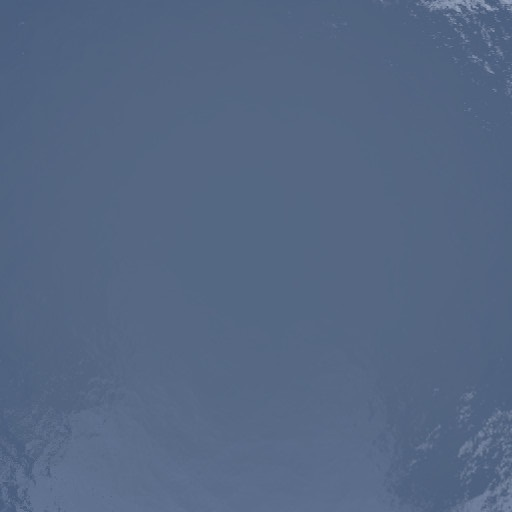
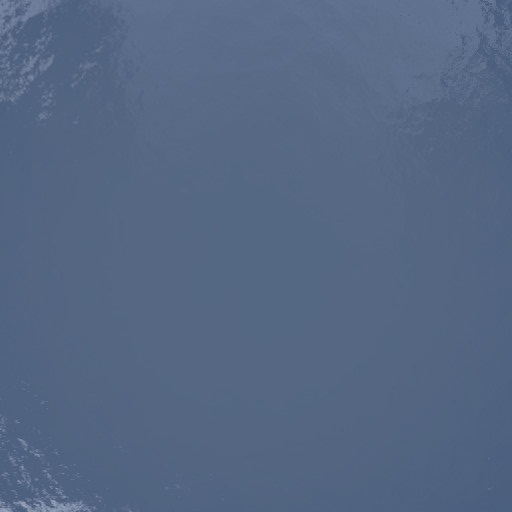
shadows working time to fix moire pattern

diff --git a/Engine/main.cpp b/Engine/main.cpp
@@ -29,6 +29,35 @@ float lastY = height / 2;
 float yaw = -90.0f;
 float pitch = 0.0f;
 
+unsigned int quadVAO = 0;
+unsigned int quadVBO;
+void renderQuad()
+{
+	if (quadVAO == 0)
+	{
+		float quadVertices[] = {
+			// positions        // texture Coords
+			-1.0f,  1.0f, 0.0f, 0.0f, 1.0f,
+			-1.0f, -1.0f, 0.0f, 0.0f, 0.0f,
+			 1.0f,  1.0f, 0.0f, 1.0f, 1.0f,
+			 1.0f, -1.0f, 0.0f, 1.0f, 0.0f,
+		};
+		// setup plane VAO
+		glGenVertexArrays(1, &quadVAO);
+		glGenBuffers(1, &quadVBO);
+		glBindVertexArray(quadVAO);
+		glBindBuffer(GL_ARRAY_BUFFER, quadVBO);
+		glBufferData(GL_ARRAY_BUFFER, sizeof(quadVertices), &quadVertices, GL_STATIC_DRAW);
+		glEnableVertexAttribArray(0);
+		glVertexAttribPointer(0, 3, GL_FLOAT, GL_FALSE, 5 * sizeof(float), (void*)0);
+		glEnableVertexAttribArray(1);
+		glVertexAttribPointer(1, 2, GL_FLOAT, GL_FALSE, 5 * sizeof(float), (void*)(3 * sizeof(float)));
+	}
+	glBindVertexArray(quadVAO);
+	glDrawArrays(GL_TRIANGLE_STRIP, 0, 4);
+	glBindVertexArray(0);
+}
+
 void createShadowMap(uint32_t& fbo, uint32_t& id)
 {
 	//Create frame buffer object to represent shadow map
@@ -165,6 +194,8 @@ int main(int argc, char* argv[])
 
 	Shader defaultShader;
 	defaultShader.load("Shaders/default.vert", "Shaders/default.frag");
+	defaultShader.activate();
+	defaultShader.setUniform("ourTexture", 0);
 	defaultShader.setUniform("shadowMap", 1);
 
 	Shader skyboxShader;
@@ -172,6 +203,9 @@ int main(int argc, char* argv[])
 
 	Shader simpleDepthShader;
 	simpleDepthShader.load("Shaders/depthShader.vert", "Shaders/depthShader.frag");
+
+	Shader debugDepthShader;
+	debugDepthShader.load("Shaders/debugDepthShader.vert", "Shaders/debugDepthShader.frag");
 	
 	//Get the size of the window for setting the perspective matrix
 	int* wide = &width;
@@ -224,9 +258,9 @@ int main(int argc, char* argv[])
 
 		//Model directional light source with parallel light rays
 		glm::mat4 lightProj, lightView, lightSpace;
-		float nearPlane = 1.0f, farPlane = 150.0f;
+		float nearPlane = 1.0f, farPlane = 20.0f;
 		lightProj = glm::ortho(-10.0f, 10.0f, -10.0f, 10.0f, nearPlane, farPlane);
-		lightView = glm::lookAt(glm::vec3(0, 30, 0), glm::vec3(0, 0, 0), glm::vec3(0, 1, 0));
+		lightView = glm::lookAt(glm::vec3(-8.0f, 6.0f, -1.0f), glm::vec3(0.0f, 0.0f, 0.0f), glm::vec3(0.0f, 1.0f, 0.0f));
 		lightSpace = lightProj * lightView;
 
 		simpleDepthShader.activate();
@@ -249,10 +283,11 @@ int main(int argc, char* argv[])
 		defaultShader.setUniform("view", camera);
 		defaultShader.setUniform("projection", perspective);
 		defaultShader.setUniform("viewPos", cameraPos);
-		defaultShader.setUniform("dirLight.direction", glm::vec3(0, -1, 0));
-		defaultShader.setUniform("pointLights[0].position", glm::vec3(0, 0, 0));
+		defaultShader.setUniform("dirLight.direction", glm::vec3(8.0f, -6.0f, 1.0f));
+		defaultShader.setUniform("pointLights[0].position", glm::vec3(0, -10, 0));
 		defaultShader.setUniform("pointLights[0].linear", 0.7f);
 		defaultShader.setUniform("pointLights[0].quadratic", 1.8f);
+		defaultShader.setUniform("lightSpaceMatrix", lightSpace);
 		island.render(defaultShader, shadowMapID);
 		defaultShader.disable();
 
@@ -266,6 +301,13 @@ int main(int argc, char* argv[])
 		skyboxShader.disable();
 		//Set the depth function back to default
 		glDepthFunc(GL_LESS);
+
+		debugDepthShader.activate();
+		debugDepthShader.setUniform("near_plane", nearPlane);
+		debugDepthShader.setUniform("far_plane", farPlane);
+		glActiveTexture(GL_TEXTURE0);
+		glBindTexture(GL_TEXTURE_2D, shadowMapID);
+		//renderQuad();
 
 		//Update the window with OpenGL rendering by swapping the back buffer with the front buffer.
 		//The front buffer contains the final image to draw to the window while the back buffer renders everything.
